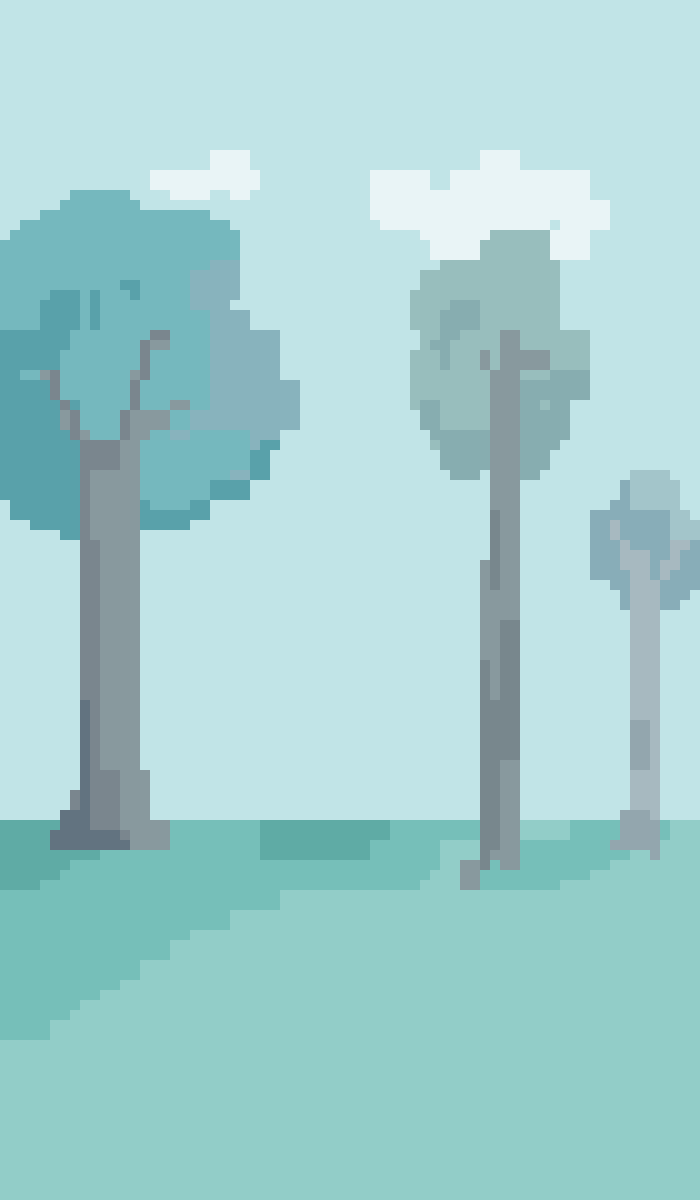
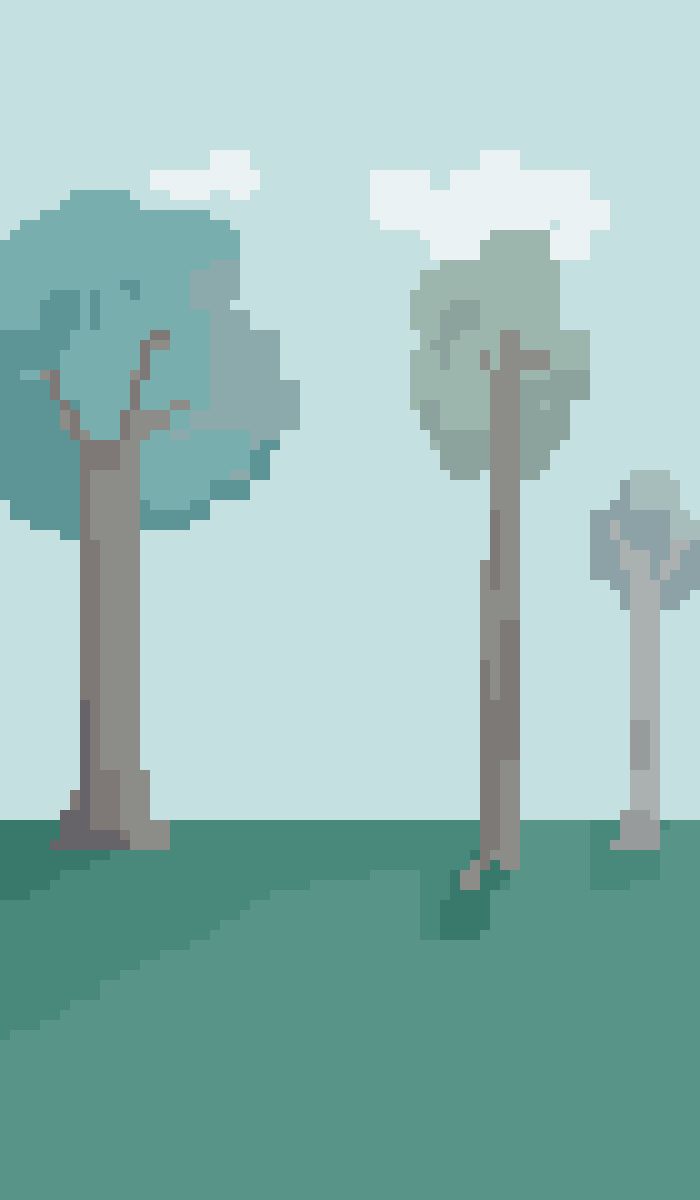
update colors

diff --git a/FitMi/FitMi/Extensions/UIKitExtention.swift b/FitMi/FitMi/Extensions/UIKitExtention.swift
@@ -53,13 +53,13 @@ extension UIView {
 extension UIColor {
 	static var primaryColor: UIColor {
 		get {
-			return UIColor(red: 68/255.0, green: 84/255.0, blue: 100/255.0, alpha: 1)
+			return UIColor(red: 66/255.0, green: 215/255.0, blue: 205/255.0, alpha: 1)
 		}
 	}
 	
 	static var secondaryColor: UIColor {
 		get {
-			return UIColor(red: 253/255.0, green: 252/255.0, blue: 224/255.0, alpha: 1)
+			return UIColor(red: 255/255.0, green: 251/255.0, blue: 233/255.0, alpha: 1)
 		}
 	}
 	
